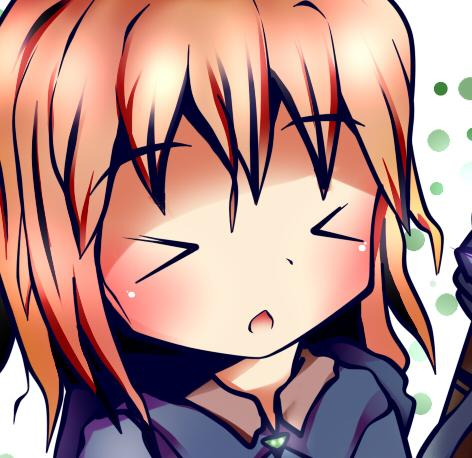
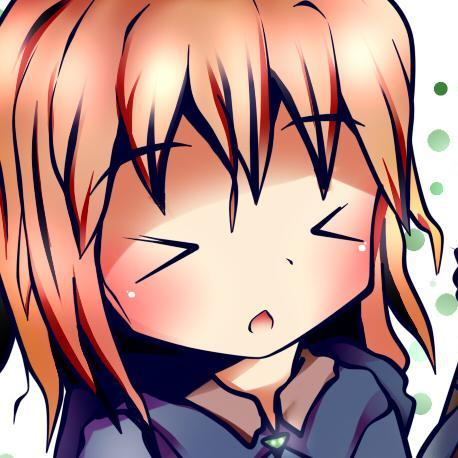
Moar gallery display

diff --git a/gallery.html b/gallery.html
@@ -24,16 +24,17 @@
 <div class="entrybody">
 	<div class="entry">
 	<p>
-	Only 1, just to make sure it isn't empty. I'll probably host on dropbox/imgur later on.
 	</p>
 	<p>
-	<img src="img/Img1.jpg" width=700px height=450px onmouseover="this.src='img/Img1H.jpg'" onmouseout="this.src='img/Img1.jpg'">
+	<img src="img/Img1.jpg" width=50% height=50% onmouseover="this.src='img/Img1H.jpg'" onmouseout="this.src='img/Img1.jpg'">
+	<img src="img/exdi.jpg" width=20% height=20%>
+	<img src="img/exdi2.png" width=20% height=20%>
 	</p>
 	</div>
 </div>
 	
 <div class="navbarbottomcenter">
     <ul class="navbarbottom">
-		<li class="navbaralign"><a href="#" class="navbarlistbottom current">Just 1</a></li>
+		<li class="navbaralign"><a href="#" class="navbarlistbottom current">Page 1</a></li>
     </ul>
 </div>

diff --git a/style.css b/style.css
@@ -80,6 +80,7 @@ date{
 	overflow: hidden;
 	float: left;
 	left: -50%;
+	border: 4px solid white;
 }
 .navbarbottomcenter{
 	float: left;
@@ -95,6 +96,10 @@ date{
     padding: 8px 8px;
     text-decoration: none;
 }
+.navbarlistbottom:hover {
+    background-color: #111111;
+}
+
 .current{
 	background-color:white;
 	color:#6cb534;
